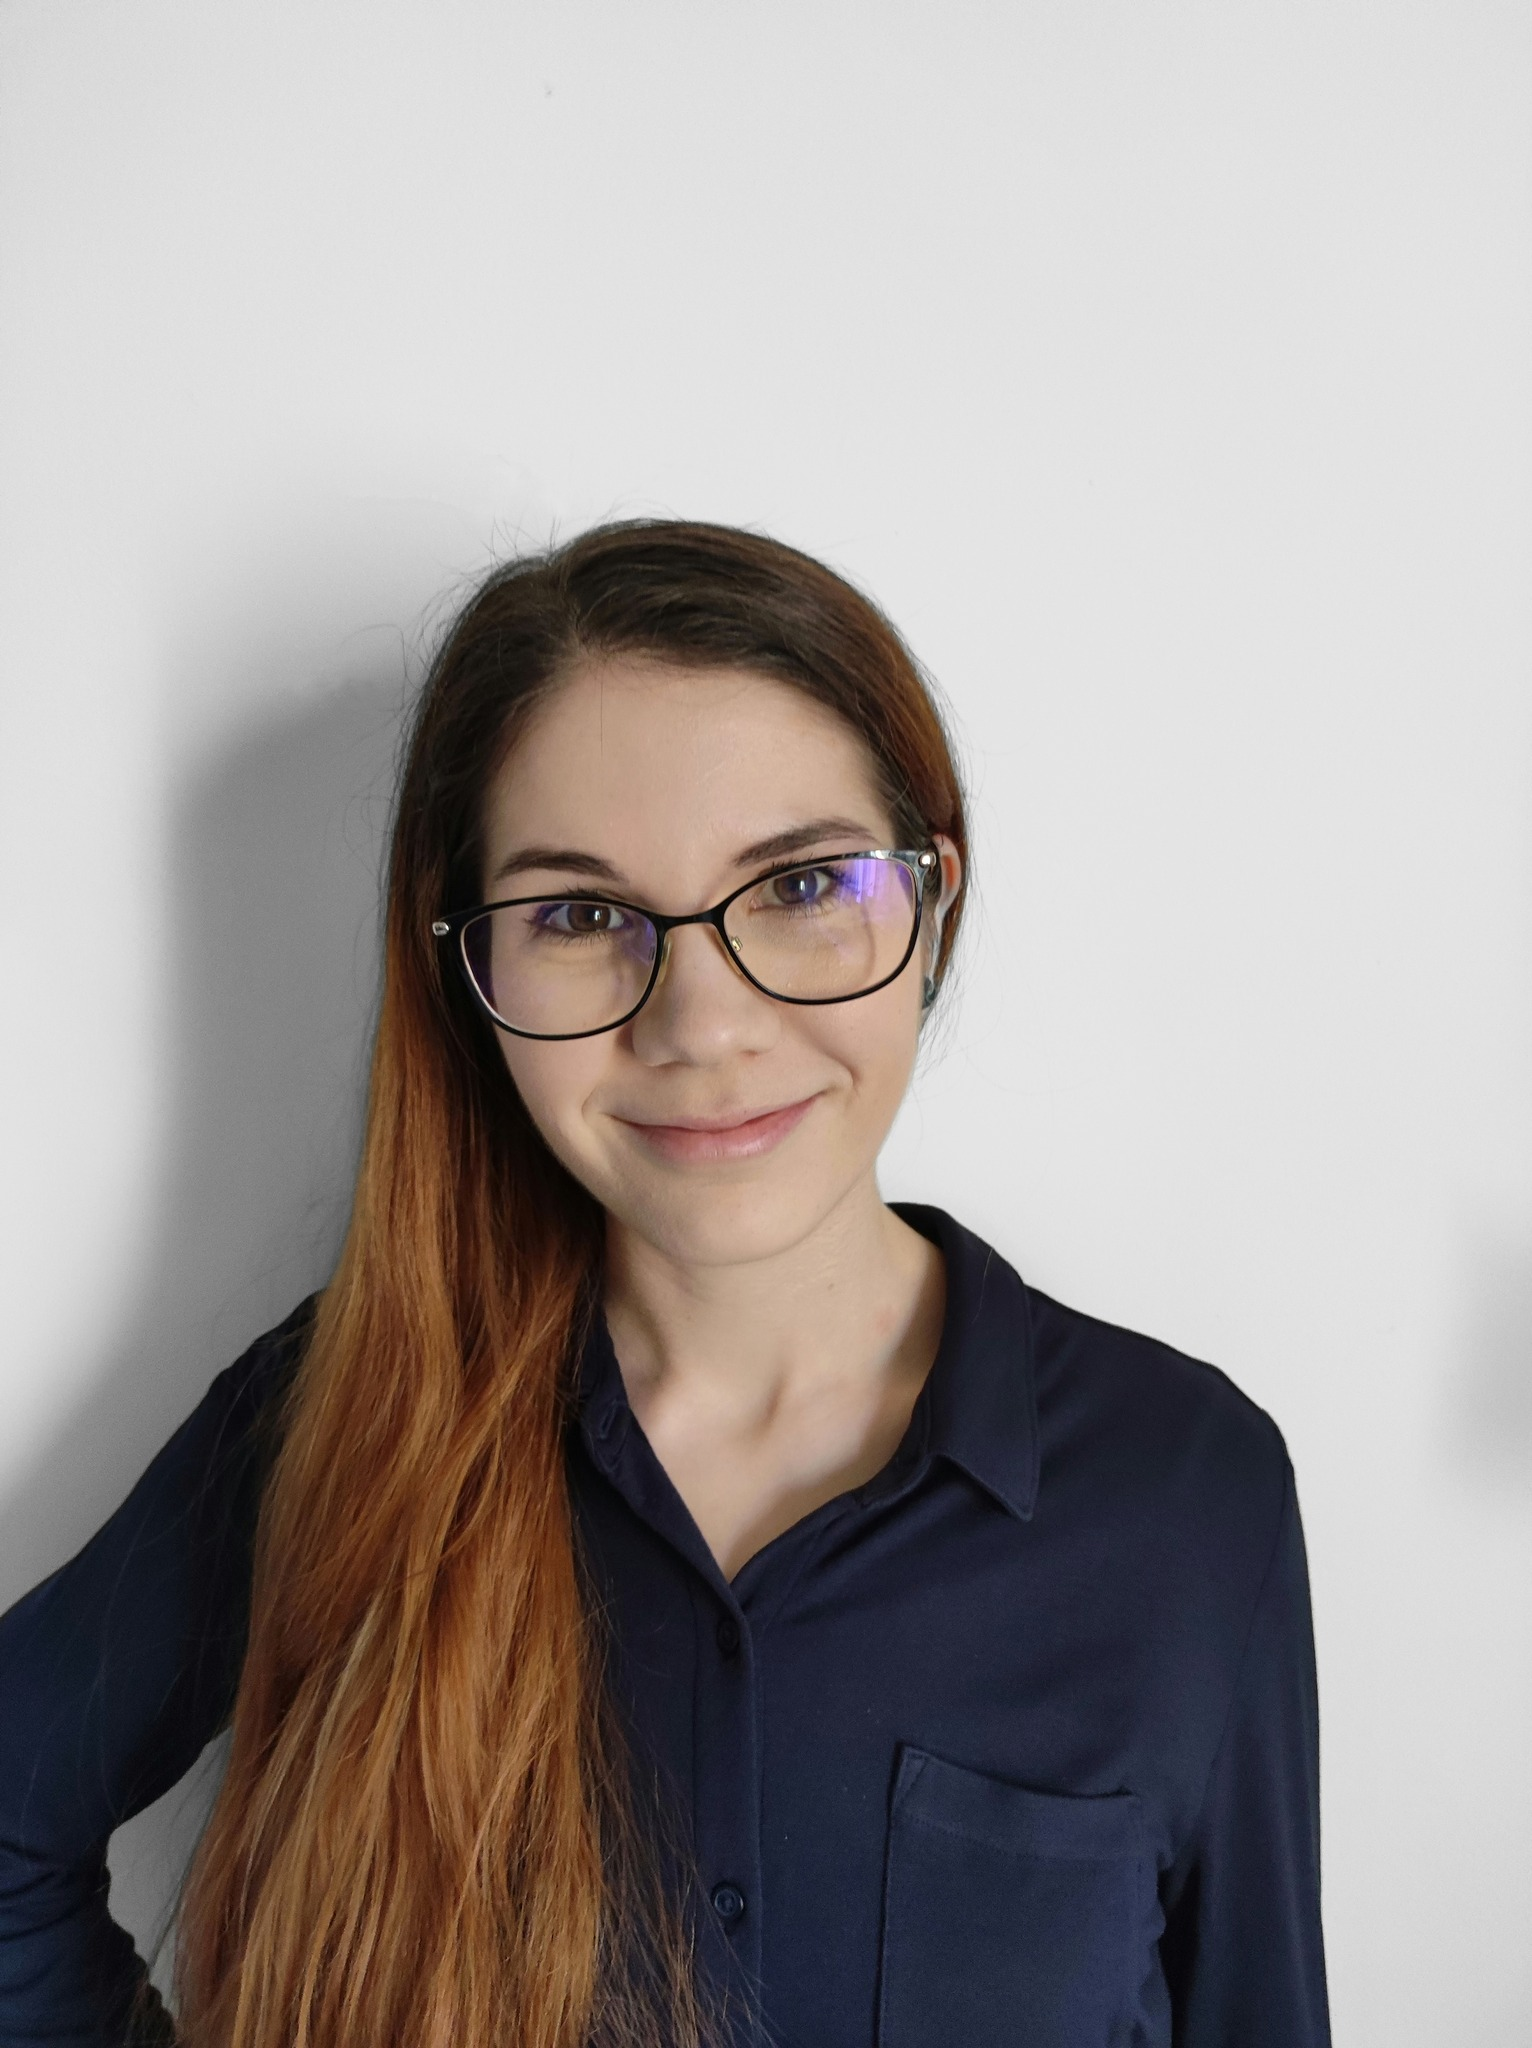
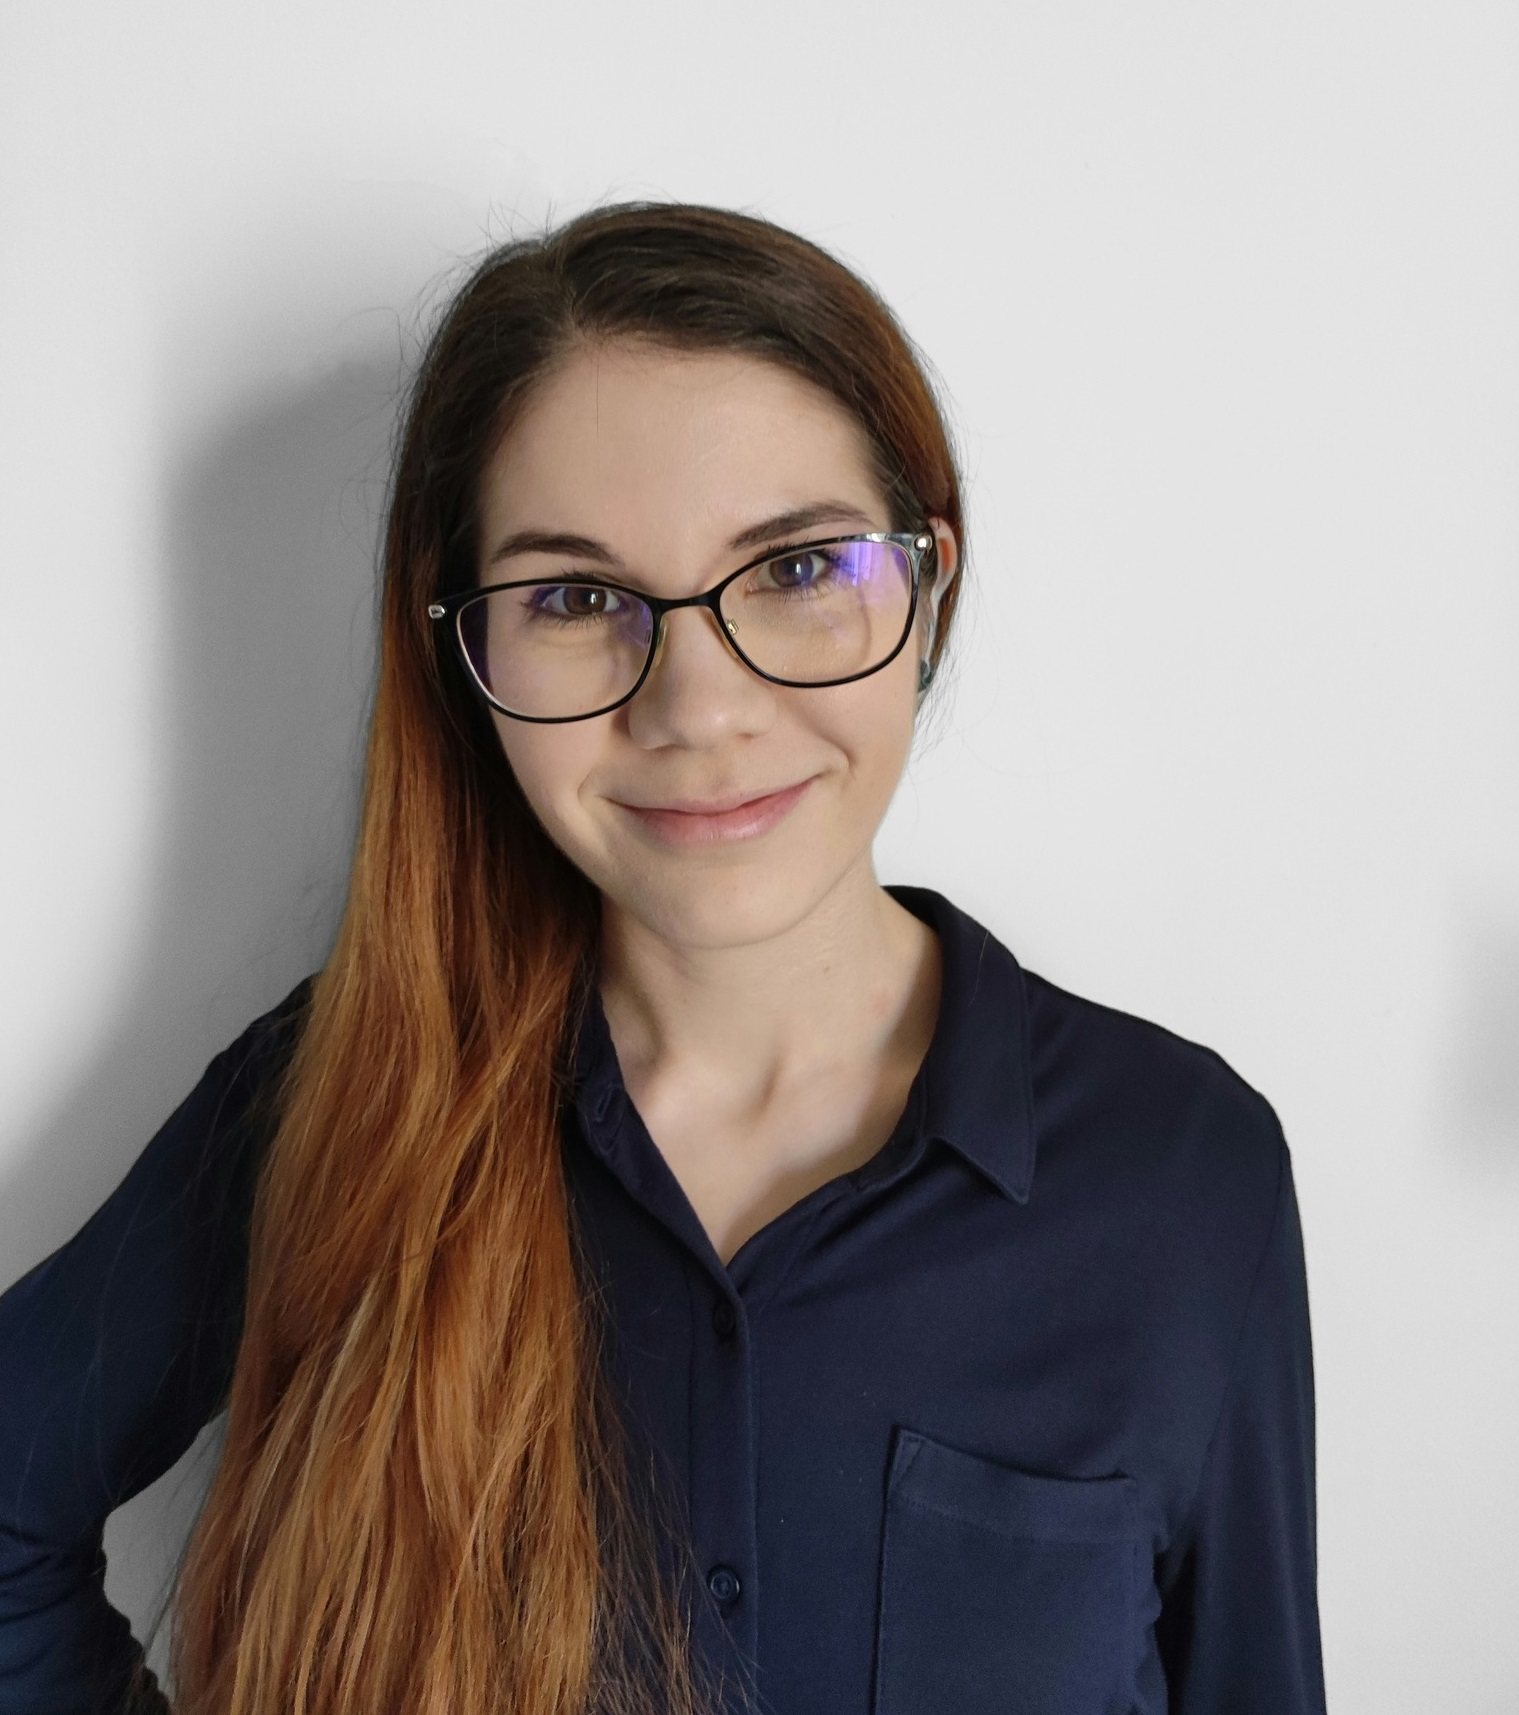
Styling about-image.

diff --git a/index.html b/index.html
@@ -46,17 +46,16 @@
 
         <main>
             <section id="about" class="style1">
-                <h2>Rólam</h2>
                 <div class="about-container">
-                    <div class="image">
-                        <img src="./assets/images/blanka.jpg" alt="Tatár Blanka">
+
+                    <div class="about-image">
+                        <img src="./assets/images/blanka.jpg" alt="Blanka">
                     </div>
-                    <div>
+                    <div class="about-text">
+                        <h2>Rólam</h2>
                         <p>
                             Tatár Blanka vagyok, pszichológus, képzésben lévő művészet-és szocioterapeuta. Diplomám megszerzése óta dolgoztam iskolapszichológusként, óvodapszichológusként, jelenleg pedig nevelési tanácsadásban dolgozom serdülőkkel a Református EGYMI munkatársaként. Humanisztikus és holisztikus szemléletmód jellemez. Úgy gondolom, hogy a testi-pszichés-lelki egészségünk szorosan összefonódik, ezért jógaoktatói képzést is végeztem.
-
                             Mind a serdülőkkel, mind pedig a fiatal felnőttekkel való munka során egyaránt dolgozom komplex művészetterápiás eszközökkel (képzőművészet, zene, irodalom, mozgásterápia), valamint relaxációs, mindfulness alapú és kognitív viselkedésterápiás elemekkel.
-                            
                             A szakmai továbbképzésem és fejlődésem mellett nagy hangsúlyt fektetek az önismeretre, illetve munkámat rendszeres szupervízió mellett végzem.
                         </p>
                     </div>

diff --git a/style.css b/style.css
@@ -220,14 +220,20 @@ section.style2 {
 .about-container {
     display: grid;
     grid-template-columns: repeat(2, 1fr);
+    padding: 1rem;
 }
 
-.about-container img {
-    width: 80%;
-    opacity: 0.9;
-    max-width: 100%;
-    height: auto;
-  
+.about-container .about-image {
+    display: flex;
+    justify-content: center;
+    align-items: center;
+    padding: 1rem;
+
+}
+
+.about-container .about-image img {
+    max-width: 80%;
+    border-radius: 50%;
 }
 
 /* Services */
